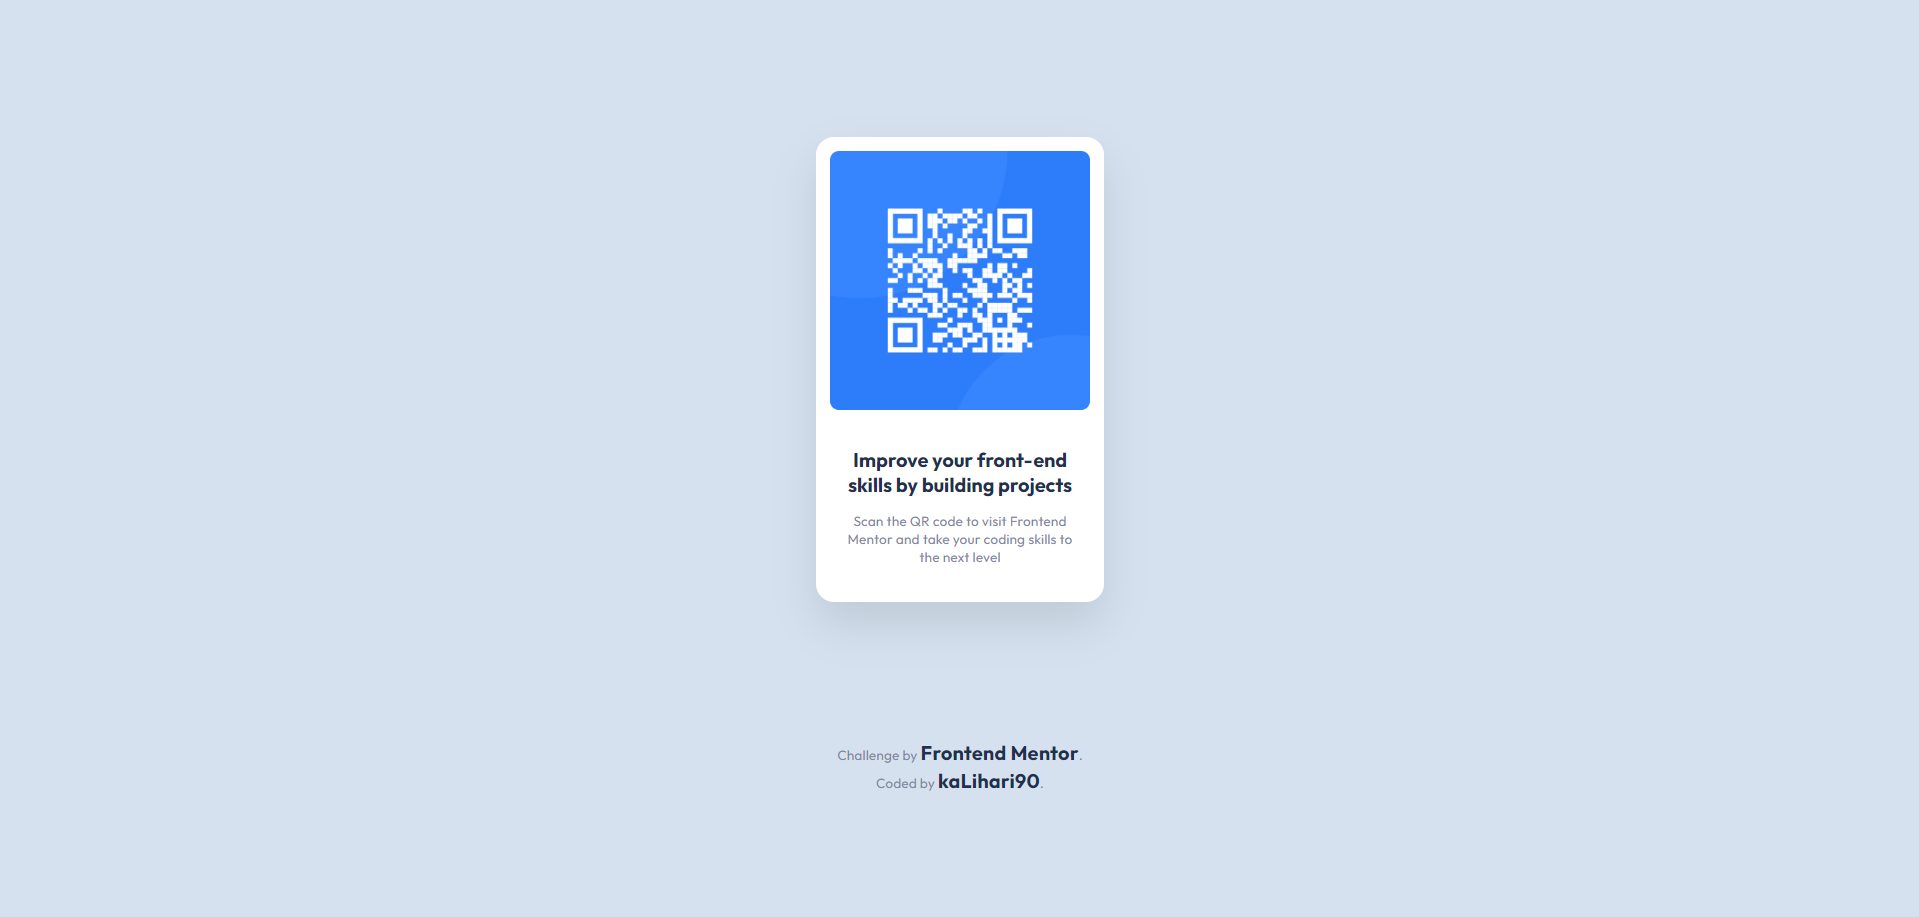
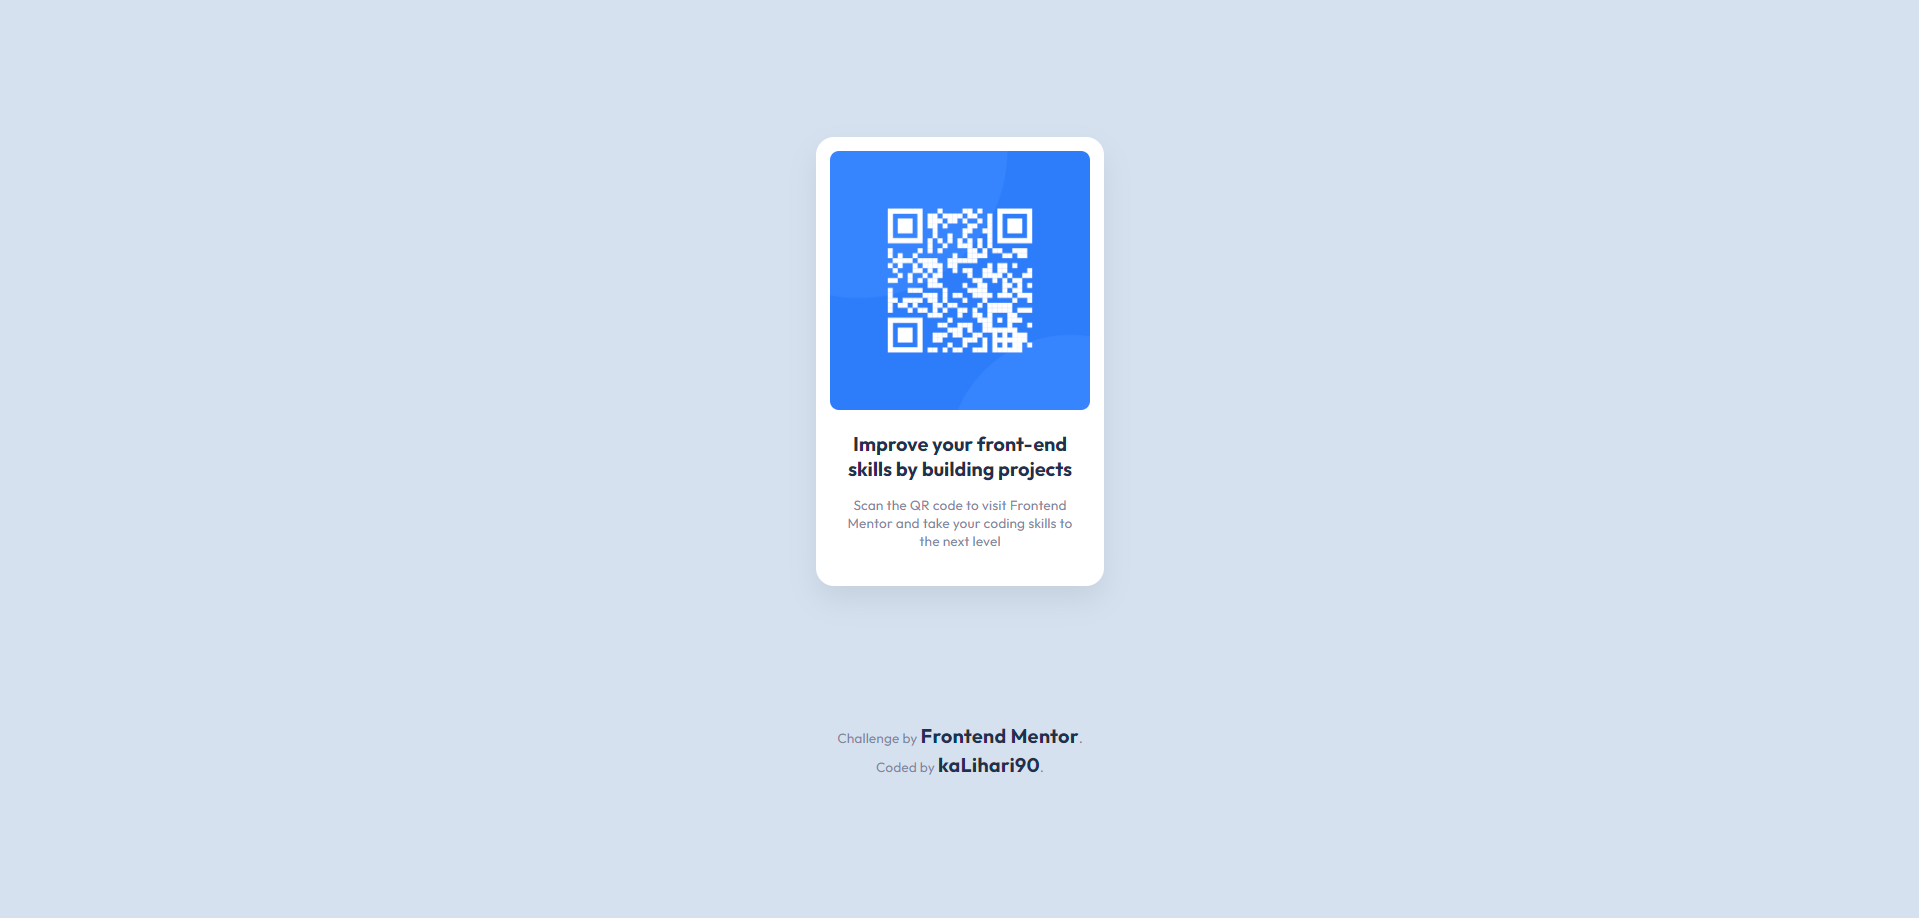
final update

Changed region(s): [[0.4304, 0.458, 0.5842, 0.6718], [0.4304, 0.7939, 0.5842, 0.8855], [0.4612, 0.2748, 0.5227, 0.3969]]

diff --git a/css/style.css b/css/style.css
@@ -47,19 +47,19 @@ p {
 	max-width: 32rem;
 	margin: 15.2rem auto;
 	background-color: var(--white);
-	border-radius: 2rem;
+	border-radius: 1.6rem;
 	padding: 1.6rem;
-	box-shadow: 0 2.4rem 4.8rem rgba(0, 0, 0, 0.1);
+	box-shadow: 0 1.6rem 3.2rem rgba(0, 0, 0, 0.075);
 }
 
 .qr-card__text {
 	text-align: center;
-	padding: 1.6rem;
-	margin-top: 1.6rem;
+	padding: 1.6rem 0.8rem;
+	/* margin-top: 1.6rem; */
 }
 
 .qr-card__text p {
-	padding: 0.8rem 0;
+	padding: 0.8rem 0.8rem;
 	color: var(--grey);
 }
 
@@ -68,10 +68,14 @@ p {
 	color: var(--dark-navy);
 }
 
-.qr-card__image img {
+.qr-card__image {
+	max-height: 28.8rem;
 	max-width: 28.8rem;
+}
+
+.qr-card__image img {
 	width: 100%;
-	border-radius: 1rem;
+	border-radius: 0.8rem;
 }
 
 .attribution {
